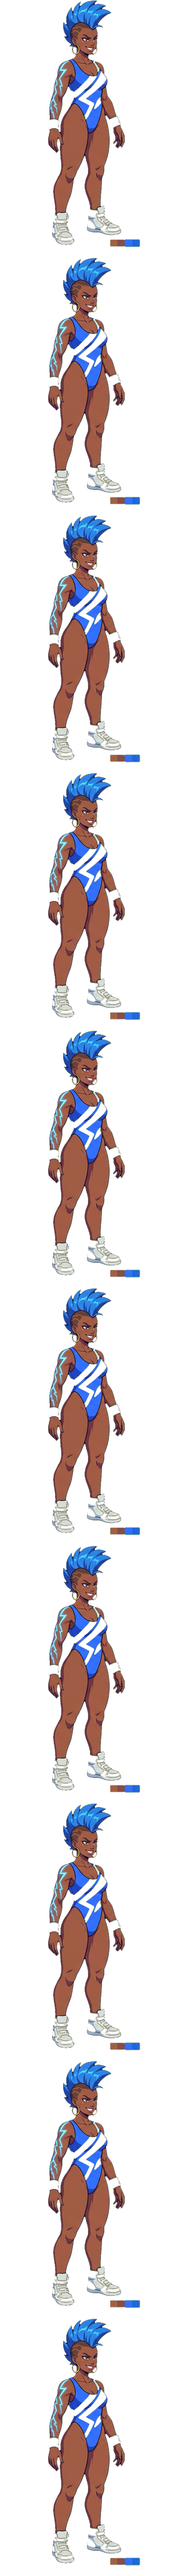
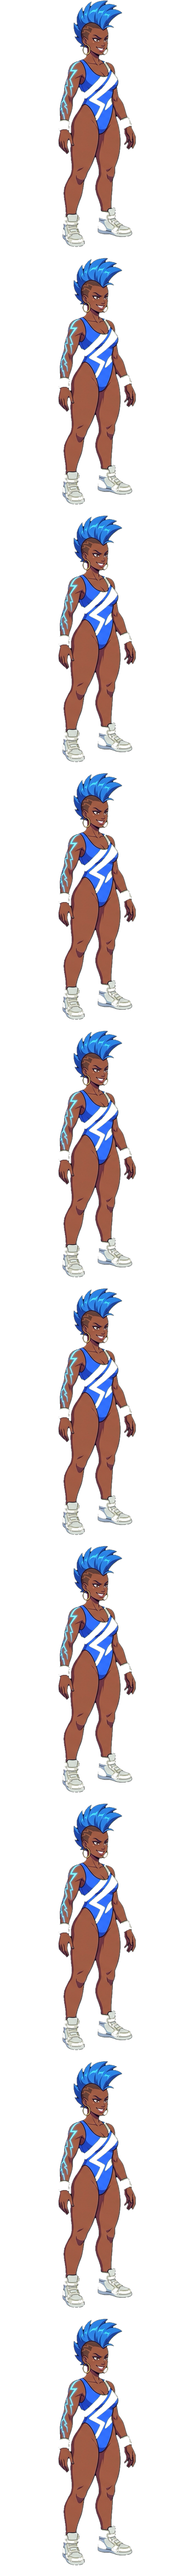
Asset manifest instead of HEAD probes; strip ref-sheet swatches; playable build published
Claude-Session: https://claude.ai/code/session_019M5Dpgc2psw9ifHCzpuztd

Changed region(s): [[0.25, 0.0, 0.75, 1.0]]

diff --git a/src/main.ts b/src/main.ts
@@ -306,7 +306,7 @@ function arenaSelect() {
   const cards = ARENAS.map((a, i) => {
     const d = document.createElement('div');
     d.className = 'arena-card';
-    d.style.backgroundImage = `url(assets/arenas/${a.id}/preview.jpg), linear-gradient(180deg, ${a.sky[0]}, ${a.sky[1]} 55%, ${a.sky[2]} 60%, ${a.sand[0]} 62%, ${a.sand[1]})`;
+    d.style.backgroundImage = `linear-gradient(180deg, ${a.sky[0]}, ${a.sky[1]} 55%, ${a.sky[2]} 60%, ${a.sand[0]} 62%, ${a.sand[1]})`;
     d.innerHTML = `<div class="nm">${a.name}<br><span class="nation">${a.subtitle}</span></div>`;
     d.addEventListener('pointerenter', () => { arenaIdx = i; paint(); });
     d.addEventListener('click', () => { arenaIdx = i; audio.play('confirm'); vsScreen(); });

diff --git a/src/render/characterArt.ts b/src/render/characterArt.ts
@@ -1,4 +1,5 @@
 import * as THREE from 'three';
+import { hasAsset } from './assets';
 import { charById, type CharacterDef } from '../sim/characters';
 
 export interface AtlasMeta {
@@ -38,15 +39,7 @@ export function loadCharacterArt(id: string): Promise<CharacterArt> {
   return cache.get(id)!;
 }
 
-async function exists(url: string) {
-  try {
-    const r = await fetch(url, { method: 'HEAD' });
-    const ct = r.headers.get('content-type') ?? '';
-    return r.ok && !ct.includes('text/html');
-  } catch {
-    return false;
-  }
-}
+const exists = hasAsset;
 
 async function load(id: string): Promise<CharacterArt> {
   const base = `assets/characters/${id}/`;

diff --git a/src/render/arena.ts b/src/render/arena.ts
@@ -1,4 +1,5 @@
 import * as THREE from 'three';
+import { hasAsset } from './assets';
 import * as C from '../sim/constants';
 
 export interface ArenaDef {
@@ -39,8 +40,7 @@ export const ARENAS: ArenaDef[] = [
 
 async function tryTexture(url: string): Promise<THREE.Texture | null> {
   try {
-    const head = await fetch(url, { method: 'HEAD' });
-    if (!head.ok || !(head.headers.get('content-type') ?? '').startsWith('image')) return null;
+    if (!(await hasAsset(url))) return null;
     const tex = await new THREE.TextureLoader().loadAsync(url);
     tex.colorSpace = THREE.SRGBColorSpace;
     tex.anisotropy = 8;

diff --git a/src/render/assets.ts b/src/render/assets.ts
@@ -1,0 +1,14 @@
+/** Which optional generated assets ship with this build (from public/assets/manifest.json). */
+let manifest: Promise<Set<string>> | null = null;
+
+function load(): Promise<Set<string>> {
+  manifest ??= fetch('assets/manifest.json')
+    .then((r) => (r.ok ? r.json() : { files: [] }))
+    .then((j: { files: string[] }) => new Set(j.files))
+    .catch(() => new Set<string>());
+  return manifest;
+}
+
+export async function hasAsset(url: string): Promise<boolean> {
+  return (await load()).has(url);
+}

diff --git a/tools/gen-assets/process.py b/tools/gen-assets/process.py
@@ -88,8 +88,12 @@ def clean_frame(crop):
     n, lbl, stats, _ = cv2.connectedComponentsWithStats((a > 40).astype(np.uint8), 8)
     if n > 2:
         areas = stats[1:, cv2.CC_STAT_AREA]
+        main = 1 + int(areas.argmax())
+        feet = stats[main, cv2.CC_STAT_TOP] + stats[main, cv2.CC_STAT_HEIGHT]
         keep = np.zeros(n, bool)
         keep[1:] = areas >= areas.max() * 0.02
+        # color-swatch rows on ref sheets sit below the feet: never part of the figure
+        keep[1:] &= stats[1:, cv2.CC_STAT_TOP] < feet - stats[main, cv2.CC_STAT_HEIGHT] * 0.03
         crop[..., 3] = np.where(keep[lbl], a, 0)
     ys, xs = np.where(crop[..., 3] > 8)
     return crop[ys.min():ys.max() + 1, xs.min():xs.max() + 1]

diff --git a/CHECKLIST.md b/CHECKLIST.md
@@ -109,7 +109,8 @@ Order: idle(4) run(6) dash(3) hold(2) throw(3) lob(2) block(2) knock(2) win(2) l
 - [ ] Re-screenshot every arena × character combo and do the director review pass
 - [ ] Balance pass: speeds, powers, curve, super strength, CPU difficulty
 - [ ] Performance check on mobile (target 60 fps; drop bloom resolution if needed)
-- [ ] Production build (`npm run build`) and a hosted playable link
+- [x] Production build (`npm run build`, which also writes `public/assets/manifest.json`)
+- [x] Playable link (private Claude artifact): https://claude.ai/artifact/AqhyW8e7KXJJEYVT5a2grU. To update: `npm run build`, then republish `dist/index.html` + `dist/assets/**` to that URL.
 
 ## Phase 5: Stretch
 - [ ] More arenas / characters
